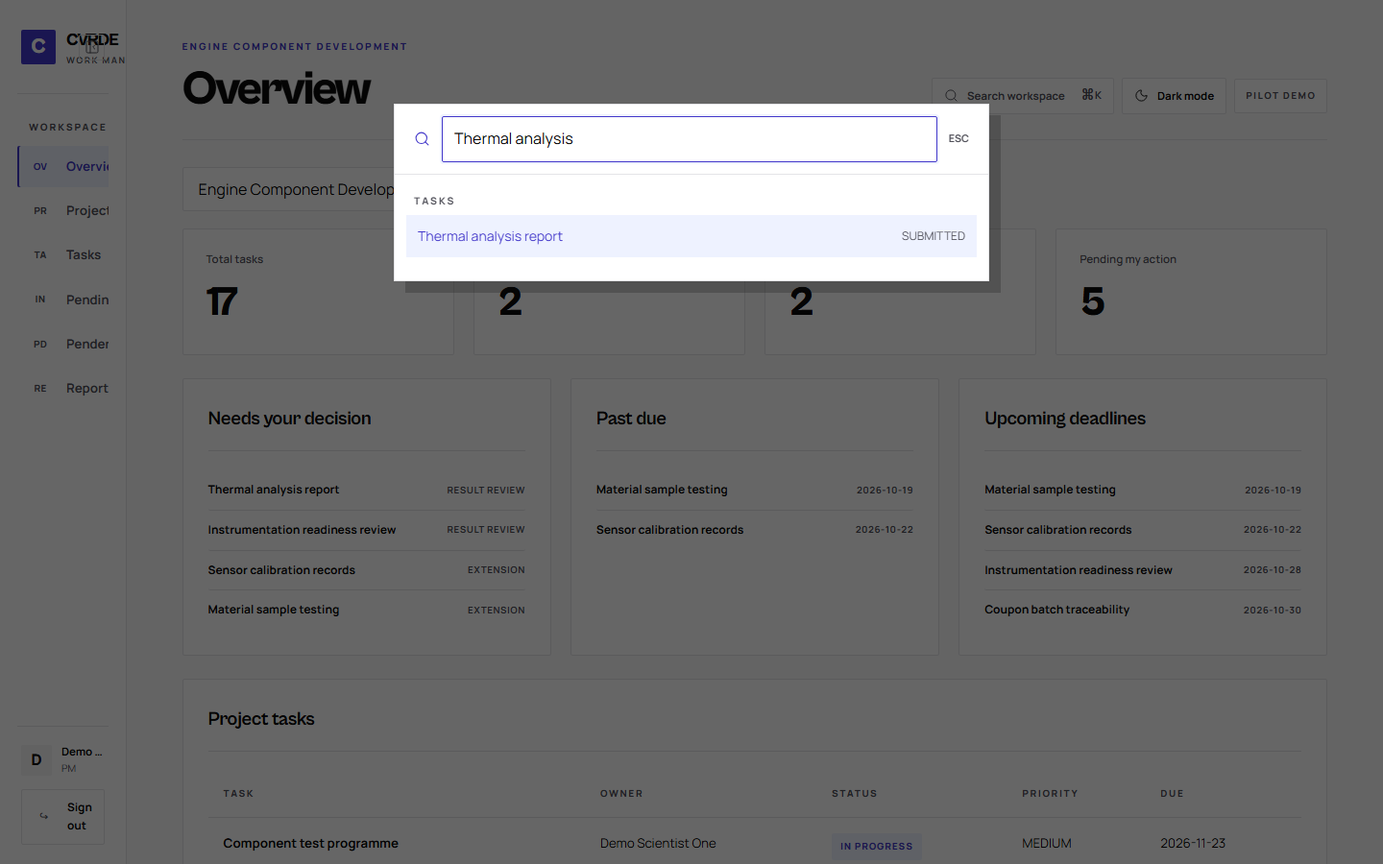
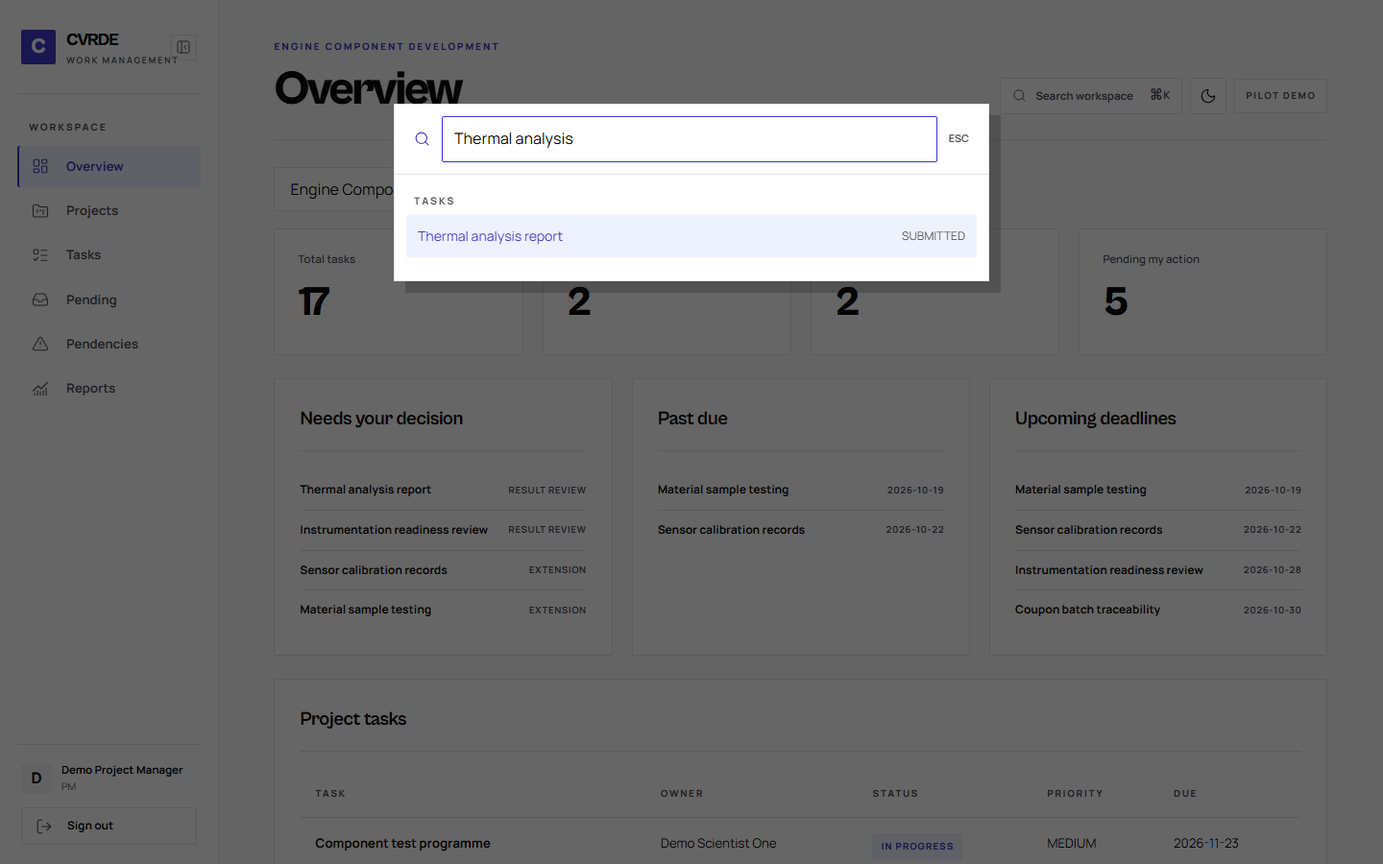
Refine sidebar and theme reveal, fit login, publish demo credentials

diff --git a/frontend/src/App.tsx b/frontend/src/App.tsx
@@ -1,8 +1,10 @@
-import {useEffect,useState,type FormEvent,type ReactNode} from 'react';
+import {useEffect,useLayoutEffect,useState,type FormEvent,type MouseEvent,type ReactNode} from 'react';
+import {flushSync} from 'react-dom';
 import {useQuery,useQueryClient} from '@tanstack/react-query';
 import {api,post,patch,del,dateOnly,type User,type Project,type Task,type Group,type Action,type Result,type Attachment,type Pendency} from './api';
 import CommandPalette from './CommandPalette';
-import {Moon,PanelLeftClose,PanelLeftOpen,Search,Sun} from 'lucide-react';
+import {demoAccounts,demoPassword} from '../../backend/src/demo';
+import {ChartNoAxesCombined,FolderKanban,Inbox,LayoutDashboard,ListTodo,LogOut,Moon,PanelLeftClose,PanelLeftOpen,Search,Sun,TriangleAlert} from 'lucide-react';
 import {motion,useReducedMotion} from 'motion/react';
 
 const field=(form:HTMLFormElement,key:string)=>String(new FormData(form).get(key)||'').trim();
@@ -34,18 +36,29 @@ function App(){
   const [commandOpen,setCommandOpen]=useState(false);
   useInteractiveTestIds(user?.role.toLowerCase()||'guest',user?screen:'login');
   useEffect(()=>{localStorage.setItem('cvrde-sidebar-collapsed',String(collapsed));},[collapsed]);
-  useEffect(()=>{document.documentElement.dataset.theme=theme;localStorage.setItem('cvrde-theme',theme);},[theme]);
+  useLayoutEffect(()=>{document.documentElement.dataset.theme=theme;localStorage.setItem('cvrde-theme',theme);},[theme]);
+  function toggleTheme(event:MouseEvent<HTMLButtonElement>){
+    const next=theme==='light'?'dark':'light';
+    const rect=event.currentTarget.getBoundingClientRect();
+    const x=rect.left+rect.width/2,y=rect.top+rect.height/2;
+    if(reducedMotion||!document.startViewTransition){setTheme(next);return}
+    const radius=Math.hypot(Math.max(x,window.innerWidth-x),Math.max(y,window.innerHeight-y));
+    document.documentElement.classList.add('theme-transitioning');
+    const transition=document.startViewTransition(()=>{document.documentElement.dataset.theme=next;flushSync(()=>setTheme(next))});
+    transition.ready.then(()=>document.documentElement.animate({clipPath:[`circle(0px at ${x}px ${y}px)`,`circle(${radius}px at ${x}px ${y}px)`]},{duration:580,easing:'cubic-bezier(.22,1,.36,1)',pseudoElement:'::view-transition-new(root)'})).catch(()=>{});
+    transition.finished.finally(()=>document.documentElement.classList.remove('theme-transitioning'));
+  }
   useEffect(()=>{const onKey=(event:KeyboardEvent)=>{if((event.metaKey||event.ctrlKey)&&event.key.toLowerCase()==='k'){event.preventDefault();setCommandOpen(open=>!open)}if(event.key==='Escape')setCommandOpen(false)};window.addEventListener('keydown',onKey);return()=>window.removeEventListener('keydown',onKey)},[]);
   useEffect(()=>{api<User>('/auth/me').then(u=>{setUser(u);setScreen(u.role==='PM'?'overview':u.role==='MEMBER'?'tasks':'pending')}).catch(()=>{});},[]);
   async function run(action:()=>Promise<unknown>,success='Saved'){setError('');setMessage('');try{await action();setMessage(success);await qc.invalidateQueries();}catch(e){setError(e instanceof Error?e.message:String(e));}}
   function go(name:string){setScreen(name);setTaskId(null);setMessage('');setError('');}
-  if(!user)return <Login theme={theme} onThemeChange={()=>setTheme(theme==='light'?'dark':'light')} onLogin={u=>{setUser(u);setScreen(u.role==='PM'?'overview':u.role==='MEMBER'?'tasks':'pending')}}/>;
+  if(!user)return <Login theme={theme} onThemeChange={toggleTheme} onLogin={u=>{setUser(u);setScreen(u.role==='PM'?'overview':u.role==='MEMBER'?'tasks':'pending')}}/>;
   const showTask=(id:number)=>{setTaskId(id);setScreen('task');setMessage('');setError('');};
-  const navItems=[['overview','OV'],['projects','PR'],['tasks','TA'],['pending','IN'],['pendencies','PD'],['reports','RE']] as const;
+  const navItems=[['overview',LayoutDashboard],['projects',FolderKanban],['tasks',ListTodo],['pending',Inbox],['pendencies',TriangleAlert],['reports',ChartNoAxesCombined]] as const;
   return <div className={'shell'+(collapsed?' sidebar-collapsed':'')}><aside className="sidebar"><div className="sidebar-brand-row"><div className="brand"><span className="brand-icon">C</span><div className="brand-copy"><strong>CVRDE</strong><small>WORK MANAGEMENT</small></div></div><button data-testid="toggle-sidebar" className="collapse-button" title={collapsed?'Expand sidebar':'Collapse sidebar'} aria-label={collapsed?'Expand sidebar':'Collapse sidebar'} onClick={()=>setCollapsed(!collapsed)}>{collapsed?<PanelLeftOpen size={16} strokeWidth={1.5}/>:<PanelLeftClose size={16} strokeWidth={1.5}/>}</button></div><div className="nav-caption">WORKSPACE</div><nav>
-    {navItems.map(([name,short])=><button key={name} data-testid={`nav-${name}`} title={name[0]!.toUpperCase()+name.slice(1)} className={screen===name?'active':''} onClick={()=>go(name)}><span className="nav-icon">{short}</span><span className="nav-label">{name[0]!.toUpperCase()+name.slice(1)}</span></button>)}
-  </nav><div className="sidebar-foot"><div className="user-avatar">{user.full_name.slice(0,1)}</div><div className="user-copy"><strong>{user.full_name}</strong><small>{user.role}</small></div><button title="Sign out" aria-label="Sign out" onClick={()=>run(async()=>{await post('/auth/logout',{});setUser(null)},'Signed out')}><span className="nav-icon">↪</span><span className="nav-label">Sign out</span></button></div></aside>
-  <motion.main key={screen} initial={reducedMotion?false:{opacity:0,y:8}} animate={{opacity:1,y:0}} transition={{duration:reducedMotion?0:.22}}><header className="top"><div><span className="eyebrow">ENGINE COMPONENT DEVELOPMENT</span><h1>{screen==='task'?'Task detail':screen[0]!.toUpperCase()+screen.slice(1)}</h1></div><div className="top-actions"><button data-testid="open-command-palette" className="search-trigger" onClick={()=>setCommandOpen(true)}><Search size={15} strokeWidth={1.5}/><span>Search workspace</span><kbd>⌘ K</kbd></button><button data-testid="toggle-theme" className="theme-toggle" aria-label={theme==='light'?'Switch to dark mode':'Switch to light mode'} onClick={()=>setTheme(theme==='light'?'dark':'light')}>{theme==='light'?<Moon size={15} strokeWidth={1.5}/>:<Sun size={15} strokeWidth={1.5}/>}<span>{theme==='light'?'Dark mode':'Light mode'}</span></button><span className="demo-badge">PILOT DEMO</span></div></header>
+    {navItems.map(([name,Icon])=><button key={name} data-testid={`nav-${name}`} title={name[0]!.toUpperCase()+name.slice(1)} aria-label={name[0]!.toUpperCase()+name.slice(1)} aria-current={screen===name?'page':undefined} className={screen===name?'active':''} onClick={()=>go(name)}><span className="nav-icon"><Icon size={18} strokeWidth={1.5}/></span><span className="nav-label">{name[0]!.toUpperCase()+name.slice(1)}</span></button>)}
+  </nav><div className="sidebar-foot"><div className="user-avatar">{user.full_name.slice(0,1)}</div><div className="user-copy"><strong>{user.full_name}</strong><small>{user.role}</small></div><button title="Sign out" aria-label="Sign out" onClick={()=>run(async()=>{await post('/auth/logout',{});setUser(null)},'Signed out')}><span className="nav-icon"><LogOut size={18} strokeWidth={1.5}/></span><span className="nav-label">Sign out</span></button></div></aside>
+  <motion.main key={screen} initial={reducedMotion?false:{opacity:0,y:8}} animate={{opacity:1,y:0}} transition={{duration:reducedMotion?0:.22}}><header className="top"><div><span className="eyebrow">ENGINE COMPONENT DEVELOPMENT</span><h1>{screen==='task'?'Task detail':screen[0]!.toUpperCase()+screen.slice(1)}</h1></div><div className="top-actions"><button data-testid="open-command-palette" className="search-trigger" onClick={()=>setCommandOpen(true)}><Search size={15} strokeWidth={1.5}/><span>Search workspace</span><kbd>⌘ K</kbd></button><button data-testid="toggle-theme" className="theme-toggle" title={theme==='light'?'Switch to dark mode':'Switch to light mode'} aria-label={theme==='light'?'Switch to dark mode':'Switch to light mode'} onClick={toggleTheme}>{theme==='light'?<Moon size={18} strokeWidth={1.5}/>:<Sun size={18} strokeWidth={1.5}/>}</button><span className="demo-badge">PILOT DEMO</span></div></header>
     {message&&<div className="notice success">{message}</div>}{error&&<div className="notice error">{error}</div>}
     {screen==='overview'&&<Overview user={user} projectId={projectId} onProject={setProjectId} onTask={showTask}/>}
     {screen==='projects'&&<Projects user={user} projectId={projectId} onProject={setProjectId} onTask={showTask} run={run}/>}
@@ -56,23 +69,15 @@ function App(){
     {screen==='reports'&&<Reports user={user} projectId={projectId} onProject={setProjectId}/>}
   </motion.main><CommandPalette open={commandOpen} onClose={()=>setCommandOpen(false)} onNavigate={go} onTask={showTask} projectId={projectId} role={user.role}/></div>;
 }
-type DemoLogin={password:string;accounts:{username:string;label:string}[]};
-const demoAccounts=[
-  {username:'pm.demo',label:'Project Manager'},
-  {username:'scientist1.demo',label:'Scientist One'},
-  {username:'scientist2.demo',label:'Scientist Two'},
-  {username:'reviewer.demo',label:'Reviewer'}
-];
-function Login({onLogin,theme,onThemeChange}:{onLogin:(u:User)=>void;theme:'light'|'dark';onThemeChange:()=>void}){
+function Login({onLogin,theme,onThemeChange}:{onLogin:(u:User)=>void;theme:'light'|'dark';onThemeChange:(event:MouseEvent<HTMLButtonElement>)=>void}){
   const [error,setError]=useState(''),[loading,setLoading]=useState(false);
   const [username,setUsername]=useState(''),[password,setPassword]=useState('');
-  const demo=useQuery({queryKey:['demo-login'],queryFn:()=>api<DemoLogin>('/auth/demo'),retry:false});
   async function submit(e:FormEvent<HTMLFormElement>){e.preventDefault();setLoading(true);setError('');try{onLogin(await post<User>('/auth/login',{username,password}));}catch(err){setError(err instanceof Error?err.message:'Login failed')}finally{setLoading(false)}}
   return <div className="login-wrap"><div className="login-panel">
-    <div className="login-tools"><button data-testid="login-toggle-theme" onClick={onThemeChange}>{theme==='light'?'Dark mode':'Light mode'}</button></div>
+    <div className="login-tools"><button data-testid="login-toggle-theme" className="theme-toggle" title={theme==='light'?'Switch to dark mode':'Switch to light mode'} aria-label={theme==='light'?'Switch to dark mode':'Switch to light mode'} onClick={onThemeChange}>{theme==='light'?<Moon size={18} strokeWidth={1.5}/>:<Sun size={18} strokeWidth={1.5}/>}</button></div>
     <div className="brand dark"><span className="brand-icon">C</span><div><strong>CVRDE</strong><small>Work Management Demo</small></div></div>
     <span className="eyebrow">SECURE PROJECT WORKSPACE</span><h1>Welcome back</h1><p className="muted">Sign in to the engine component work management pilot.</p>
-    <div className="demo-logins"><strong>Explore as a demo user</strong><p>Choose a role to fill the sign in form.</p><div className="demo-login-grid">{(demo.data?.accounts||demoAccounts).map(account=><button data-testid={`demo-${account.username.replaceAll('.','-')}`} type="button" key={account.username} onClick={()=>{setUsername(account.username);if(demo.data?.password)setPassword(demo.data.password)}}><span>{account.label}</span><small>{account.username}</small></button>)}</div>{demo.data?<small>Shared demo password: <code>{demo.data.password}</code></small>:demo.isError?<small>Demo password is unavailable on this deployment. Ask the project owner to enable demo access.</small>:<small>Loading demo access…</small>}</div>
+    <div className="demo-logins"><strong>Explore as a demo user</strong><p>Choose a role to fill the sign in form.</p><div className="demo-login-grid">{demoAccounts.map(account=><button data-testid={`demo-${account.username.replaceAll('.','-')}`} type="button" key={account.username} onClick={()=>{setUsername(account.username);setPassword(demoPassword)}}><span>{account.label}</span><small>{account.username}</small></button>)}</div><small>Shared demo password: <code>{demoPassword}</code></small></div>
     <form onSubmit={submit} className="stack"><label>Username<input data-testid="login-username" name="username" autoComplete="username" value={username} onChange={e=>setUsername(e.target.value)} required/></label><label>Password<input data-testid="login-password" name="password" type="password" autoComplete="current-password" value={password} onChange={e=>setPassword(e.target.value)} required/></label>{error&&<div className="notice error">{error}</div>}<button data-testid="login-submit" className="primary" disabled={loading}>{loading?'Signing in…':'Sign in'}</button></form>
     <p className="login-note">Fictional pilot data only</p>
   </div></div>;

diff --git a/frontend/src/theme.css b/frontend/src/theme.css
@@ -40,6 +40,10 @@
   --accent-soft:#242447;
 }
 body{background:var(--background);color:var(--text);line-height:1.6}
+::view-transition-old(root),::view-transition-new(root){animation:none;mix-blend-mode:normal}
+::view-transition-old(root){z-index:1}
+::view-transition-new(root){z-index:2}
+:root.theme-transitioning,:root.theme-transitioning *{transition:none!important}
 h1,h2,h3,.brand strong,.stat strong{font-family:"Cabinet Grotesk",Manrope,sans-serif}
 h1,h2,h3{color:var(--text);font-weight:700}
 button,.button,input,select,textarea{border-radius:2px}
@@ -69,7 +73,7 @@ a{color:var(--accent)}
 .sidebar nav button{display:flex;align-items:center;gap:15px;white-space:nowrap;border:0;border-radius:2px;padding:11px 12px;text-align:left;background:transparent;color:var(--muted);font-size:.83rem;font-weight:700}
 .sidebar nav button:hover{background:var(--subtle);color:var(--text)}
 .sidebar nav button.active{background:var(--accent-soft);color:var(--accent);box-shadow:inset 2px 0 var(--accent)}
-.nav-icon{display:inline-flex;justify-content:center;align-items:center;width:24px;flex:0 0 24px;font-size:.62rem;font-weight:800;letter-spacing:.03em;color:var(--muted)}
+.nav-icon{display:inline-flex;justify-content:center;align-items:center;width:24px;flex:0 0 24px;color:var(--muted)}
 .sidebar nav button.active .nav-icon{color:var(--accent)}
 .sidebar-foot{display:grid;grid-template-columns:32px minmax(0,1fr);align-items:center;column-gap:10px;row-gap:10px;margin-top:auto;padding:17px 4px 0;border-color:var(--border)}
 .user-avatar{display:grid;place-items:center;width:32px;height:32px;border-radius:2px;background:var(--subtle);color:var(--text);font-weight:800}
@@ -77,12 +81,17 @@ a{color:var(--accent)}
 .user-copy strong{display:block;color:var(--text);font-size:.72rem;white-space:nowrap;overflow:hidden;text-overflow:ellipsis}
 .user-copy small{display:block;font-size:.65rem;color:var(--muted)}
 .sidebar-foot button{grid-column:1/-1;display:flex;align-items:center;gap:12px;padding:9px 11px;margin:3px 0 0;border-color:var(--border);border-radius:2px;text-align:left;color:var(--text);font-size:.74rem}
-.sidebar-collapsed .sidebar{padding-inline:10px}
-.sidebar-collapsed .sidebar-brand-row{display:grid;justify-items:center;padding-inline:0;gap:13px}
+.sidebar-collapsed .sidebar{padding-inline:12px}
+.sidebar-collapsed .sidebar-brand-row{display:grid;justify-items:center;justify-content:center;padding:0 0 18px;gap:12px}
+.sidebar-collapsed .brand-icon{width:40px;height:40px}
+.sidebar-collapsed .collapse-button{width:36px;height:30px}
 .sidebar-collapsed .brand-copy,.sidebar-collapsed .nav-caption,.sidebar-collapsed .nav-label,.sidebar-collapsed .user-copy{display:none}
-.sidebar-collapsed .sidebar nav button{justify-content:center;padding:12px 0}
+.sidebar-collapsed .sidebar nav{display:grid;justify-items:center;gap:6px;margin-top:20px;overflow:visible}
+.sidebar-collapsed .sidebar nav button{justify-content:center;align-items:center;width:46px;height:46px;padding:0}
+.sidebar-collapsed .sidebar nav button .nav-icon{width:20px;flex-basis:20px}
 .sidebar-collapsed .sidebar-foot{display:grid;justify-items:center;grid-template-columns:1fr;padding-inline:0}
-.sidebar-collapsed .sidebar-foot button{justify-content:center;width:100%;padding:9px 0}
+.sidebar-collapsed .sidebar-foot .user-avatar{width:40px;height:40px}
+.sidebar-collapsed .sidebar-foot button{justify-content:center;width:46px;height:42px;padding:0}
 main{padding:34px min(4vw,64px) 72px;min-width:0}
 .top{display:flex;align-items:flex-end;gap:20px;padding-bottom:26px;margin-bottom:28px;border-bottom:1px solid var(--border)}
 .top h1{font-size:clamp(2.2rem,3.5vw,3.6rem);line-height:1.02;letter-spacing:-.055em;font-weight:800;margin:8px 0 0}
@@ -90,6 +99,7 @@ main{padding:34px min(4vw,64px) 72px;min-width:0}
 .top-actions{display:flex;align-items:center;gap:8px;margin-left:auto}
 .top-actions button{white-space:nowrap;padding:9px 12px;font-size:.72rem}
 .search-trigger,.theme-toggle{display:flex;align-items:center;gap:9px}
+.top-actions .theme-toggle,.login-tools .theme-toggle{display:grid;place-items:center;width:38px;height:38px;padding:0}
 .search-trigger{min-width:190px;justify-content:space-between;color:var(--muted);text-align:left}
 .search-trigger span{margin-right:auto}
 kbd{font:inherit;font-weight:700;font-size:.67rem;color:var(--muted);white-space:nowrap}
@@ -135,23 +145,27 @@ td strong{color:var(--text)}
 .text-button{color:var(--accent)}
 .task-heading h2{font-size:2rem;letter-spacing:-.05em}
 .task-heading p,.task-meta,.details dt{color:var(--muted)}
-.login-wrap{min-height:100vh;background:var(--background);padding:30px;display:grid;place-items:center}
-.login-panel{width:min(530px,calc(100vw - 32px));padding:42px;background:var(--surface);color:var(--text);border:1px solid var(--border);border-radius:2px;box-shadow:none}
-.login-tools{display:flex;justify-content:flex-end;margin:-15px -15px 18px 0}
+.login-wrap{min-height:100svh;background:var(--background);padding:16px;display:grid;place-items:center;overflow:hidden}
+.login-panel{width:min(530px,calc(100vw - 32px));padding:28px;background:var(--surface);color:var(--text);border:1px solid var(--border);border-radius:2px;box-shadow:none}
+.login-tools{display:flex;justify-content:flex-end;margin:-8px -8px 9px 0}
 .login-tools button{font-size:.68rem;padding:6px 9px}
-.login-panel .brand{padding:0;margin-bottom:34px}
-.login-panel h1{font-size:clamp(2.6rem,5vw,4rem);line-height:1;letter-spacing:-.065em;margin:12px 0 16px;color:var(--text);font-weight:800}
-.login-panel .muted{line-height:1.6}
-.demo-logins{background:var(--subtle);border:1px solid var(--border);border-radius:2px;padding:19px;margin-top:23px}
+.login-panel .brand{padding:0;margin-bottom:19px}
+.login-panel h1{font-size:clamp(2.6rem,5vw,3.6rem);line-height:1;letter-spacing:-.065em;margin:7px 0 8px;color:var(--text);font-weight:800}
+.login-panel .muted{line-height:1.45;margin-bottom:0}
+.demo-logins{background:var(--subtle);border:1px solid var(--border);border-radius:2px;padding:14px;margin-top:16px}
 .demo-logins>strong{display:block;font-size:.86rem;color:var(--text)}
-.demo-logins p{font-size:.75rem;color:var(--muted);margin:5px 0 13px}
-.demo-login-grid{display:grid;grid-template-columns:repeat(2,minmax(0,1fr));gap:8px;margin-bottom:13px}
-.demo-login-grid button{display:grid;gap:2px;text-align:left;padding:11px 13px;background:var(--surface);border-color:var(--border);font-size:.74rem}
+.demo-logins p{font-size:.75rem;color:var(--muted);margin:4px 0 9px}
+.demo-login-grid{display:grid;grid-template-columns:repeat(2,minmax(0,1fr));gap:7px;margin-bottom:9px}
+.demo-login-grid button{display:grid;gap:1px;text-align:left;padding:8px 11px;background:var(--surface);border-color:var(--border);font-size:.74rem}
 .demo-login-grid button:hover{background:var(--accent-soft);border-color:var(--accent);color:var(--accent)}
 .demo-login-grid small{font-size:.66rem}
 .demo-logins>small{font-size:.71rem;overflow-wrap:anywhere}
 .demo-logins code{color:var(--accent);font-weight:800}
+.login-panel .stack{gap:10px;margin-top:16px}
+.login-panel .stack label{gap:4px}
+.login-panel .stack button{margin-top:2px}
 .login-note{color:var(--muted)}
+.login-panel .login-note{margin-top:13px;margin-bottom:0}
 .command-backdrop{position:fixed;inset:0;z-index:100;background:#09090b99;display:flex;justify-content:center;align-items:flex-start;padding:12vh 16px 20px;animation:fade-in .15s ease}
 .command-dialog{width:min(620px,100%);max-height:min(72vh,720px);background:var(--surface);color:var(--text);border:1px solid var(--border);border-radius:2px;box-shadow:12px 12px 0 #09090b35;display:flex;flex-direction:column}
 .command-input-row{display:flex;align-items:center;gap:12px;padding:16px 20px;border-bottom:1px solid var(--border)}
@@ -176,6 +190,7 @@ td strong{color:var(--text)}
 :root[data-theme=dark] .demo-login-grid button:hover{background:#242447;color:#A5B4FC;border-color:#6366F1}
 @keyframes fade-in{from{opacity:0}to{opacity:1}}
 @media(prefers-reduced-motion:reduce){*,*::before,*::after{animation-duration:.01ms!important;transition-duration:.01ms!important}}
+@media(max-height:760px){.login-wrap{padding:8px}.login-panel{padding:18px}.login-tools{margin:-4px -4px 5px 0}.login-panel .brand{margin-bottom:10px}.login-panel h1{font-size:2.6rem;margin:4px 0}.login-panel .muted,.login-panel .login-note{display:none}.demo-logins{margin-top:9px;padding:10px}.demo-logins p{margin:2px 0 6px}.demo-login-grid{gap:5px;margin-bottom:5px}.demo-login-grid button{padding:6px 9px}.login-panel .stack{margin-top:9px;gap:6px}.login-panel .stack input{padding:7px 9px}}
 @media(max-width:1100px){.top{align-items:flex-start;flex-wrap:wrap}.top-actions{width:100%;margin-left:0}.stat-grid{grid-template-columns:repeat(2,minmax(0,1fr))}.bento-grid{grid-template-columns:1fr 1fr}.bento-grid .card:first-child{grid-column:1/-1}}
 @media(max-width:900px){.shell{grid-template-columns:220px minmax(0,1fr)}.shell.sidebar-collapsed{grid-template-columns:74px minmax(0,1fr)}main{padding:28px}}
-@media(max-width:620px){.shell,.shell.sidebar-collapsed{display:block}.sidebar{position:sticky;top:0;height:auto;max-height:none;padding:10px 13px;z-index:20}.sidebar-brand-row{border:0;padding:0}.sidebar .brand-icon{width:31px;height:31px;font-size:1.1rem}.sidebar .brand-copy strong{font-size:.9rem}.sidebar .brand-copy small{display:none}.nav-caption,.sidebar-foot{display:none}.sidebar nav{display:flex;margin-top:8px;gap:4px}.sidebar nav button{padding:8px 9px;font-size:.7rem}.nav-icon{font-size:.6rem;width:18px;flex-basis:18px}.sidebar-collapsed .sidebar-brand-row{display:flex;justify-content:space-between}.sidebar-collapsed .sidebar nav button{padding:9px}.top h1{font-size:2.5rem}main{padding:20px}.top-actions{flex-wrap:wrap}.search-trigger{min-width:160px}.login-panel{padding:27px}.stat-grid{gap:10px}.stat{padding:16px;min-height:100px}.stat strong{font-size:2.3rem}.bento-grid{grid-template-columns:1fr}.bento-grid .card:first-child{grid-column:auto}}
+@media(max-width:620px){.shell,.shell.sidebar-collapsed{display:block}.sidebar{position:sticky;top:0;height:auto;max-height:none;padding:10px 13px;z-index:20}.sidebar-brand-row{border:0;padding:0}.sidebar .brand-icon{width:31px;height:31px;font-size:1.1rem}.sidebar .brand-copy strong{font-size:.9rem}.sidebar .brand-copy small{display:none}.nav-caption,.sidebar-foot{display:none}.sidebar nav{display:flex;margin-top:8px;gap:4px}.sidebar nav button{padding:8px 9px;font-size:.7rem}.nav-icon{width:18px;flex-basis:18px}.sidebar-collapsed .sidebar-brand-row{display:flex;justify-content:space-between}.sidebar-collapsed .sidebar nav button{padding:9px}.top h1{font-size:2.5rem}main{padding:20px}.top-actions{flex-wrap:wrap}.search-trigger{min-width:160px}.login-panel{padding:20px}.stat-grid{gap:10px}.stat{padding:16px;min-height:100px}.stat strong{font-size:2.3rem}.bento-grid{grid-template-columns:1fr}.bento-grid .card:first-child{grid-column:auto}}

diff --git a/backend/src/routes.ts b/backend/src/routes.ts
@@ -5,6 +5,7 @@ import { z } from 'zod';
 import { db, one, query } from './db.js';
 import { authenticate, currentUser, getProject, handler, history, HttpError, issueSession, notify, projectManager, projectMember, role, taskAccess, taskById, uid, visibleTaskIds, type Task, type User } from './core.js';
 import { fileRoutes } from './files.js';
+import { demoAccounts, demoPassword } from './demo.js';
 
 export const api = Router();
 const parse = <T extends z.ZodTypeAny>(schema:T,value:unknown):z.infer<T> => schema.parse(value);
@@ -16,13 +17,7 @@ const taskInput = z.object({title:z.string().trim().min(1).max(200),description:
 const attempts = new Map<string,{count:number;until:number}>();
 api.get('/auth/demo',(_req,res)=>{
   res.setHeader('Cache-Control','no-store');
-  if(process.env.PUBLIC_DEMO_LOGIN!=='true' || !process.env.DEMO_PASSWORD)return res.status(404).json({error:'Demo login unavailable'});
-  return res.json({password:process.env.DEMO_PASSWORD,accounts:[
-    {username:'pm.demo',label:'Project Manager'},
-    {username:'scientist1.demo',label:'Scientist One'},
-    {username:'scientist2.demo',label:'Scientist Two'},
-    {username:'reviewer.demo',label:'Reviewer'}
-  ]});
+  return res.json({password:demoPassword,accounts:demoAccounts});
 });
 api.post('/auth/login',handler(async(req,res)=>{
   const {username,password}=parse(z.object({username:z.string().min(1),password:z.string().min(1)}),req.body);

diff --git a/backend/src/seed.ts b/backend/src/seed.ts
@@ -4,9 +4,9 @@ import { randomUUID } from 'node:crypto';
 import { zipSync, strToU8 } from 'fflate';
 import { db, one, query, pool } from './db.js';
 import { history } from './core.js';
+import { demoPassword } from './demo.js';
 
-const password=process.env.DEMO_PASSWORD;
-if(!password || password.length<12)throw new Error('Set DEMO_PASSWORD to at least 12 characters');
+const password=demoPassword;
 const day=(offset:number)=>new Date(Date.now()+offset*86400000).toISOString().slice(0,10);
 const demo='Engine Component Development — Demo';
 const hash=await bcrypt.hash(password,12);
@@ -93,5 +93,5 @@ try{
     await history(tx,pid,sample,'EXTENSION_REQUESTED',ids['scientist1.demo'],{old_due_date:day(-5),new_due_date:day(7)});
     await history(tx,pid,calibration,'PENDENCY_RAISED',ids['scientist1.demo'],{pendency_id:p!.id});
   });
-  console.log(`Demo project reset; usernames: ${Object.keys(ids).join(', ')}. Password from DEMO_PASSWORD.`);
+  console.log(`Demo project reset; usernames: ${Object.keys(ids).join(', ')}. Public demo password: ${demoPassword}.`);
 }finally{await pool.end();}

diff --git a/backend/test/workflows.test.ts b/backend/test/workflows.test.ts
@@ -1,11 +1,12 @@
 import { describe, expect, it } from 'vitest';
 import request from 'supertest';
 import { app } from '../src/server.js';
+import { demoPassword } from '../src/demo.js';
 
 describe('fictional demo workflows', () => {
   it('enforces visibility and completes approval and result flows', async () => {
-    const password=process.env.DEMO_PASSWORD;
-    if(!process.env.DATABASE_URL || !password)throw new Error('Set DATABASE_URL and DEMO_PASSWORD; run npm run migrate and npm run seed before this test');
+    const password=demoPassword;
+    if(!process.env.DATABASE_URL)throw new Error('Set DATABASE_URL; run npm run migrate and npm run seed before this test');
     const pm=request.agent(app),s1=request.agent(app),s2=request.agent(app),reviewer=request.agent(app);
     const loginIds:Record<string,number>={};
     for(const [agent,username] of [[pm,'pm.demo'],[s1,'scientist1.demo'],[s2,'scientist2.demo'],[reviewer,'reviewer.demo']] as const){

diff --git a/backend/src/demo.ts b/backend/src/demo.ts
@@ -1,0 +1,8 @@
+// This credential is intentionally public: these accounts contain fictional pilot data.
+export const demoPassword='CVRDE-Demo-2026!';
+export const demoAccounts=[
+  {username:'pm.demo',label:'Project Manager'},
+  {username:'scientist1.demo',label:'Scientist One'},
+  {username:'scientist2.demo',label:'Scientist Two'},
+  {username:'reviewer.demo',label:'Reviewer'}
+];

diff --git a/README.md b/README.md
@@ -4,7 +4,7 @@ Fictional pilot for project, task, review, pendency, and reporting workflows. Th
 
 ## Local start
 
-1. Copy `.env.example` to `.env` in the repository root. Set `DATABASE_URL` to your Neon connection string and `DEMO_PASSWORD` to a unique value of at least 12 characters. `PUBLIC_DEMO_LOGIN=true` shows the four demo accounts and their shared password on the login screen.
+1. Copy `.env.example` to `.env` in the repository root. Set `DATABASE_URL` to your Neon connection string.
 2. From the repository root, run:
 
 ```powershell
@@ -19,7 +19,7 @@ npm run seed
 npm run dev
 ```
 
-Open `http://localhost:5173`. Demo accounts are `pm.demo`, `scientist1.demo`, `scientist2.demo`, and `reviewer.demo`. They share `DEMO_PASSWORD`. Seeding resets only the named fictional demo project and updates the four demo users.
+Open `http://localhost:5173`. Demo accounts are `pm.demo`, `scientist1.demo`, `scientist2.demo`, and `reviewer.demo`. Their public password is `CVRDE-Demo-2026!`, shown on the login page. Seeding resets only the named fictional demo project and updates the four demo users.
 
 ## One Vercel project
 
@@ -30,20 +30,18 @@ Set these environment variables in the Vercel project:
 | Variable | Value |
 |---|---|
 | `DATABASE_URL` | Neon PostgreSQL connection string |
-| `DEMO_PASSWORD` | Same 12+ character password used when seeding |
-| `PUBLIC_DEMO_LOGIN` | `true` to show the demo accounts and password on the login page |
 
 Before the first deployment, run `npm run migrate` and `npm run seed` locally against that Neon database. After schema changes, run migrations again before deploying the new code. Seeding is a deliberate reset of the demo project, so run it only when you want the sample data refreshed. The API uses secure cookies automatically on Vercel.
 
 For existing installations with files in `backend/uploads`, run `npm run backfill:files` after migration and before deployment. This copies old attachment bytes into PostgreSQL. New uploads are stored in PostgreSQL and work across Vercel function instances. Uploads are limited to 4 MB to fit Vercel's request size limit.
 
-`PUBLIC_DEMO_LOGIN=true` makes the shared demo password public. Use it only for a fictional demo database. The seeded accounts can edit that demo data. Do not reuse the demo password for another service.
+The shared demo password is deliberately public. Use this app only with the fictional demo database. The seeded accounts can edit that demo data. Do not reuse the demo password for another service.
 
 ### Demo login on deployed URLs
 
-The demo account names are always visible in the login form. The shared password comes from the API. For both `https://cvrde-five.vercel.app` and `https://biztel-ai-cvrde.vercel.app`, open `/api/v1/auth/demo` after deployment. A JSON response with four accounts means the API is configured. A `404` with `Demo login unavailable` means `PUBLIC_DEMO_LOGIN=true` or `DEMO_PASSWORD` is missing. A function error or `500` can indicate that `DATABASE_URL` is missing or the API failed to initialize.
+The demo account names and password are built into the fictional pilot and remain visible even if the API is temporarily unavailable. For both `https://cvrde-five.vercel.app` and `https://biztel-ai-cvrde.vercel.app`, open `/health` after deployment. A `500` or `FUNCTION_INVOCATION_FAILED` means the API has failed to start; check the function logs and `DATABASE_URL`. The frontend can show the password, but sign in still requires a working API and a database seeded with the same password.
 
-The local root `.env` is ignored by Git and is not sent to Vercel. Add `DATABASE_URL`, `DEMO_PASSWORD`, and `PUBLIC_DEMO_LOGIN=true` in each Vercel project's **Settings → Environment Variables** for the environment that serves its URL. If both domains point to one project, configure that project once. Redeploy after changing variables, because older deployments keep their previous values.
+The local root `.env` is ignored by Git and is not sent to Vercel. Add `DATABASE_URL` in each Vercel project's **Settings → Environment Variables** for the environment that serves its URL. If both domains point to one project, configure that project once. Redeploy after changing variables, because older deployments keep their previous values. Run `npm run seed` again to set the public password on existing demo accounts.
 
 ## Optional email
 

diff --git a/docs/HANDOVER.md b/docs/HANDOVER.md
@@ -21,7 +21,7 @@
 
 ## Configuration
 
-For Vercel, set `DATABASE_URL`, `DEMO_PASSWORD`, and `PUBLIC_DEMO_LOGIN=true` in one project. For local development, copy the root `.env.example` to the root `.env`. SMTP values and four controlled `DEMO_EMAIL_*` inboxes are optional for mail verification. Keep `.env` outside Git.
+For Vercel, set `DATABASE_URL` in one project. For local development, copy the root `.env.example` to the root `.env`. The fictional demo password is public and stored in `backend/src/demo.ts`; run `npm run seed` after changing it. SMTP values and four controlled `DEMO_EMAIL_*` inboxes are optional for mail verification. Keep `.env` outside Git.
 
 Neon holds the PostgreSQL database and attachment bytes. Back up the database. Existing disk attachments can be copied with `npm run backfill:files` after migration. The API needs outbound TLS access to Neon. An isolated CVRDE deployment must use local PostgreSQL instead.
 

diff --git a/docs/ACCEPTANCE.md b/docs/ACCEPTANCE.md
@@ -37,4 +37,4 @@ npm run smoke
 npm run check:vercel-entry
 ```
 
-The local test uses the `DATABASE_URL` and `DEMO_PASSWORD` environment variables. The test changes demo data; run `npm run seed` again afterward.
+The local test uses `DATABASE_URL` and the public demo password in the repository. The test changes demo data; run `npm run seed` again afterward.
